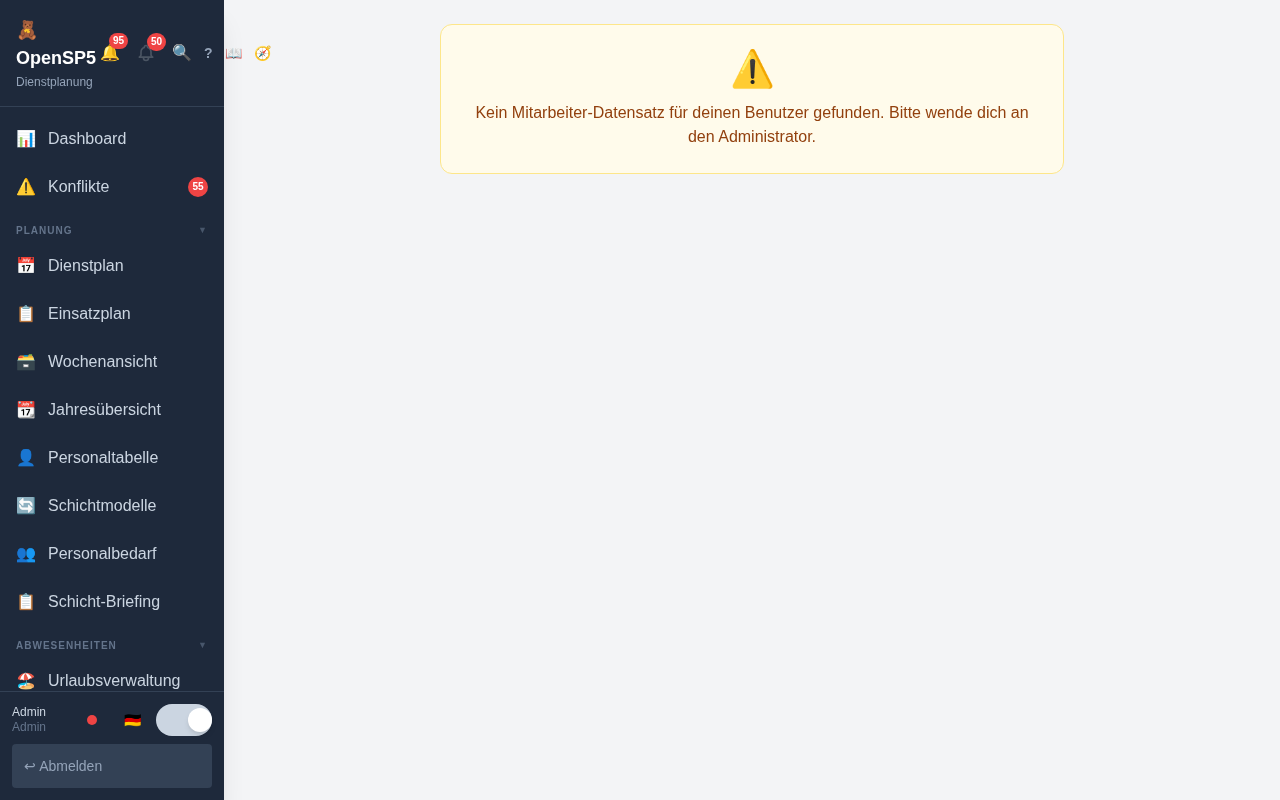
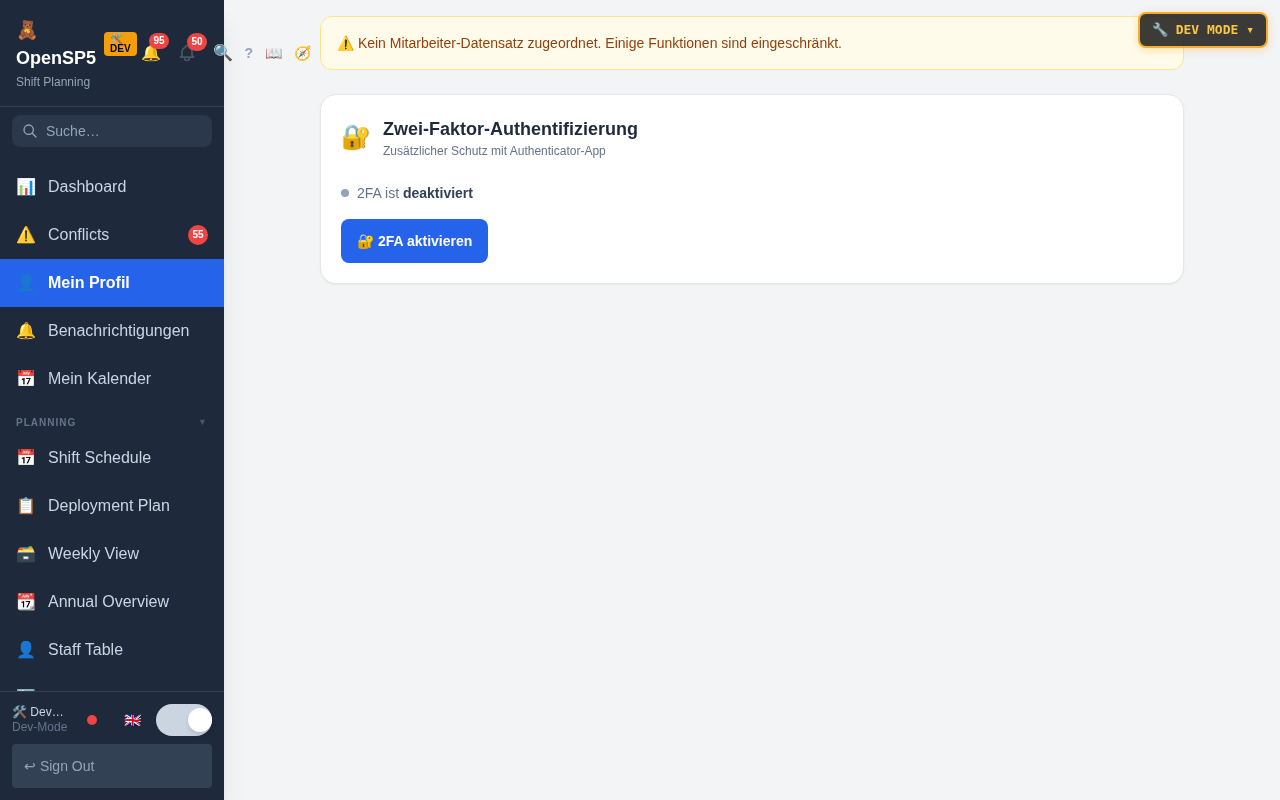
fix(profile): show 2FA setup even without employee record + fresh screenshot (#41)

diff --git a/frontend/src/pages/MeinProfil.tsx b/frontend/src/pages/MeinProfil.tsx
@@ -149,6 +149,7 @@ export default function MeinProfil() {
   const [empName, setEmpName] = useState('');
   const [loading, setLoading] = useState(true);
   const [error, setError] = useState<string | null>(null);
+  const [noEmployee, setNoEmployee] = useState(false);
 
   const [monthsData, setMonthsData] = useState<MonthData[]>([]);
   const [shifts, setShifts] = useState<ShiftType[]>([]);
@@ -203,8 +204,9 @@ export default function MeinProfil() {
       setLeaveTypes(ltRes);
 
       if (!meRes.employee) {
-        setError('Kein Mitarbeiter-Datensatz für deinen Benutzer gefunden. Bitte wende dich an den Administrator.');
+        // Still show 2FA section even without employee record
         setLoading(false);
+        setNoEmployee(true);
         return;
       }
 
@@ -362,6 +364,17 @@ export default function MeinProfil() {
           <div className="text-4xl mb-3">⚠️</div>
           <p className="text-amber-800 font-medium">{error}</p>
         </div>
+      </div>
+    );
+  }
+
+  if (noEmployee) {
+    return (
+      <div className="max-w-4xl mx-auto p-4 space-y-6">
+        <div className="bg-amber-50 border border-amber-200 rounded-xl p-4">
+          <p className="text-amber-800 text-sm">⚠️ Kein Mitarbeiter-Datensatz zugeordnet. Einige Funktionen sind eingeschränkt.</p>
+        </div>
+        <TwoFactorSetup />
       </div>
     );
   }